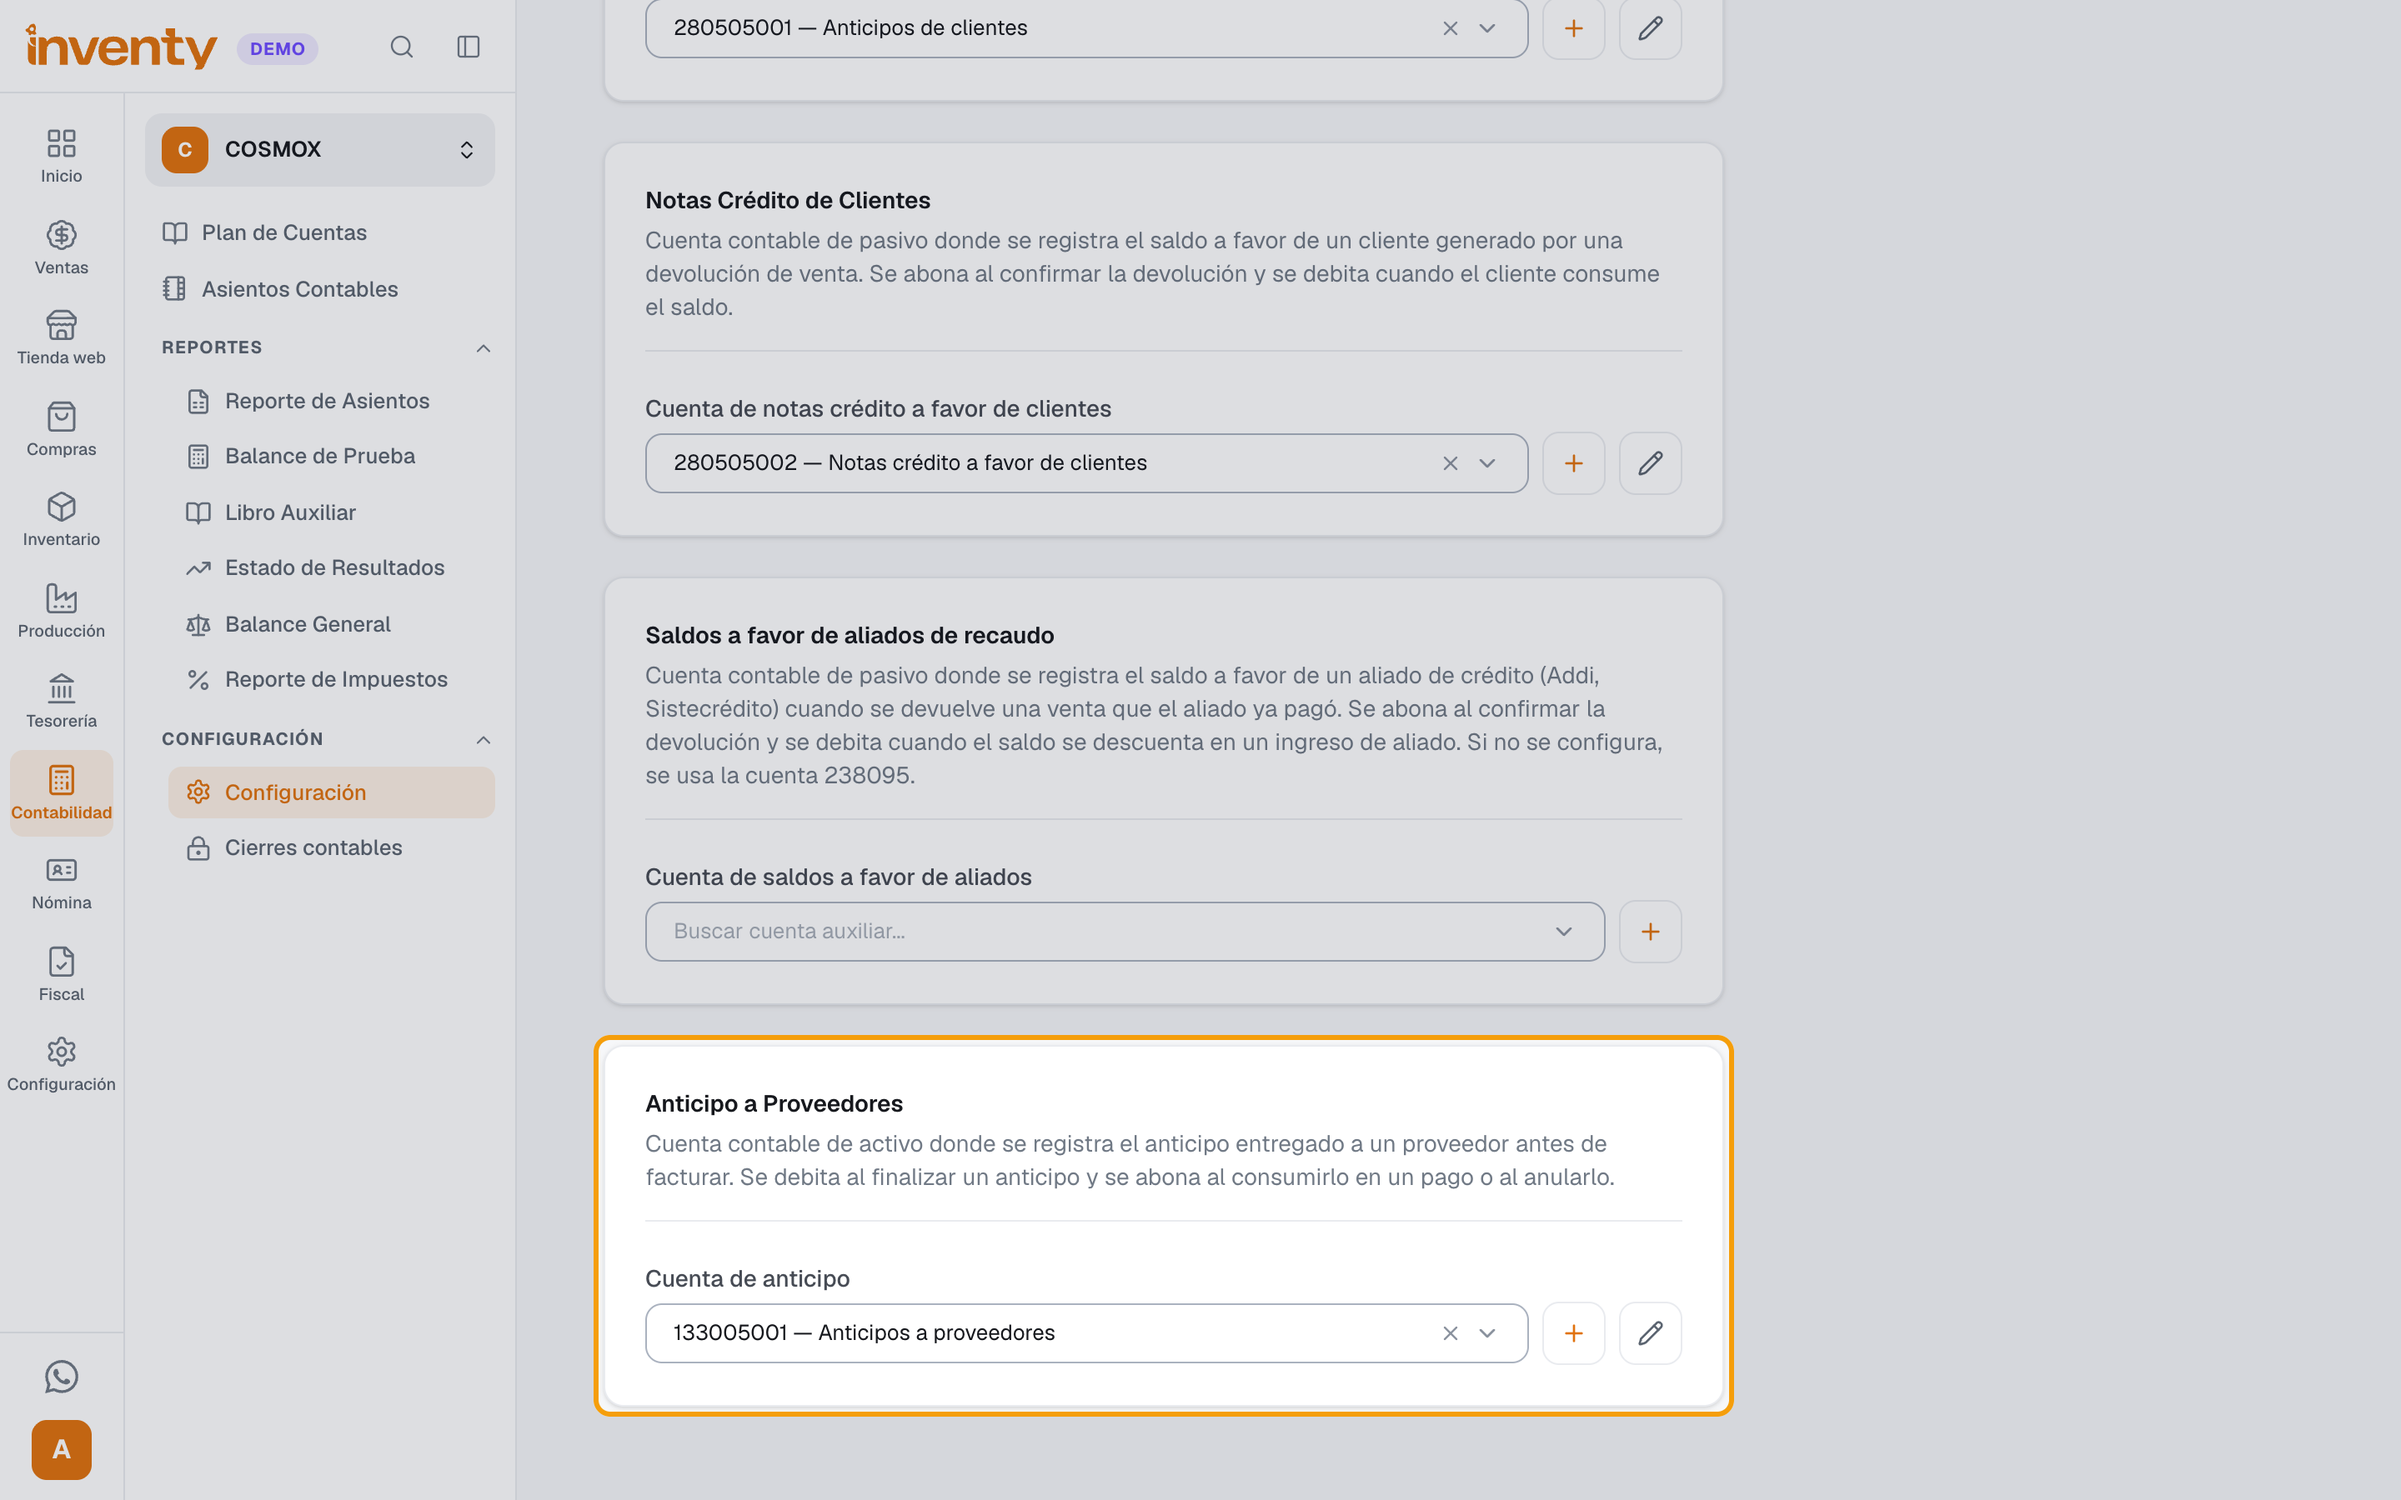
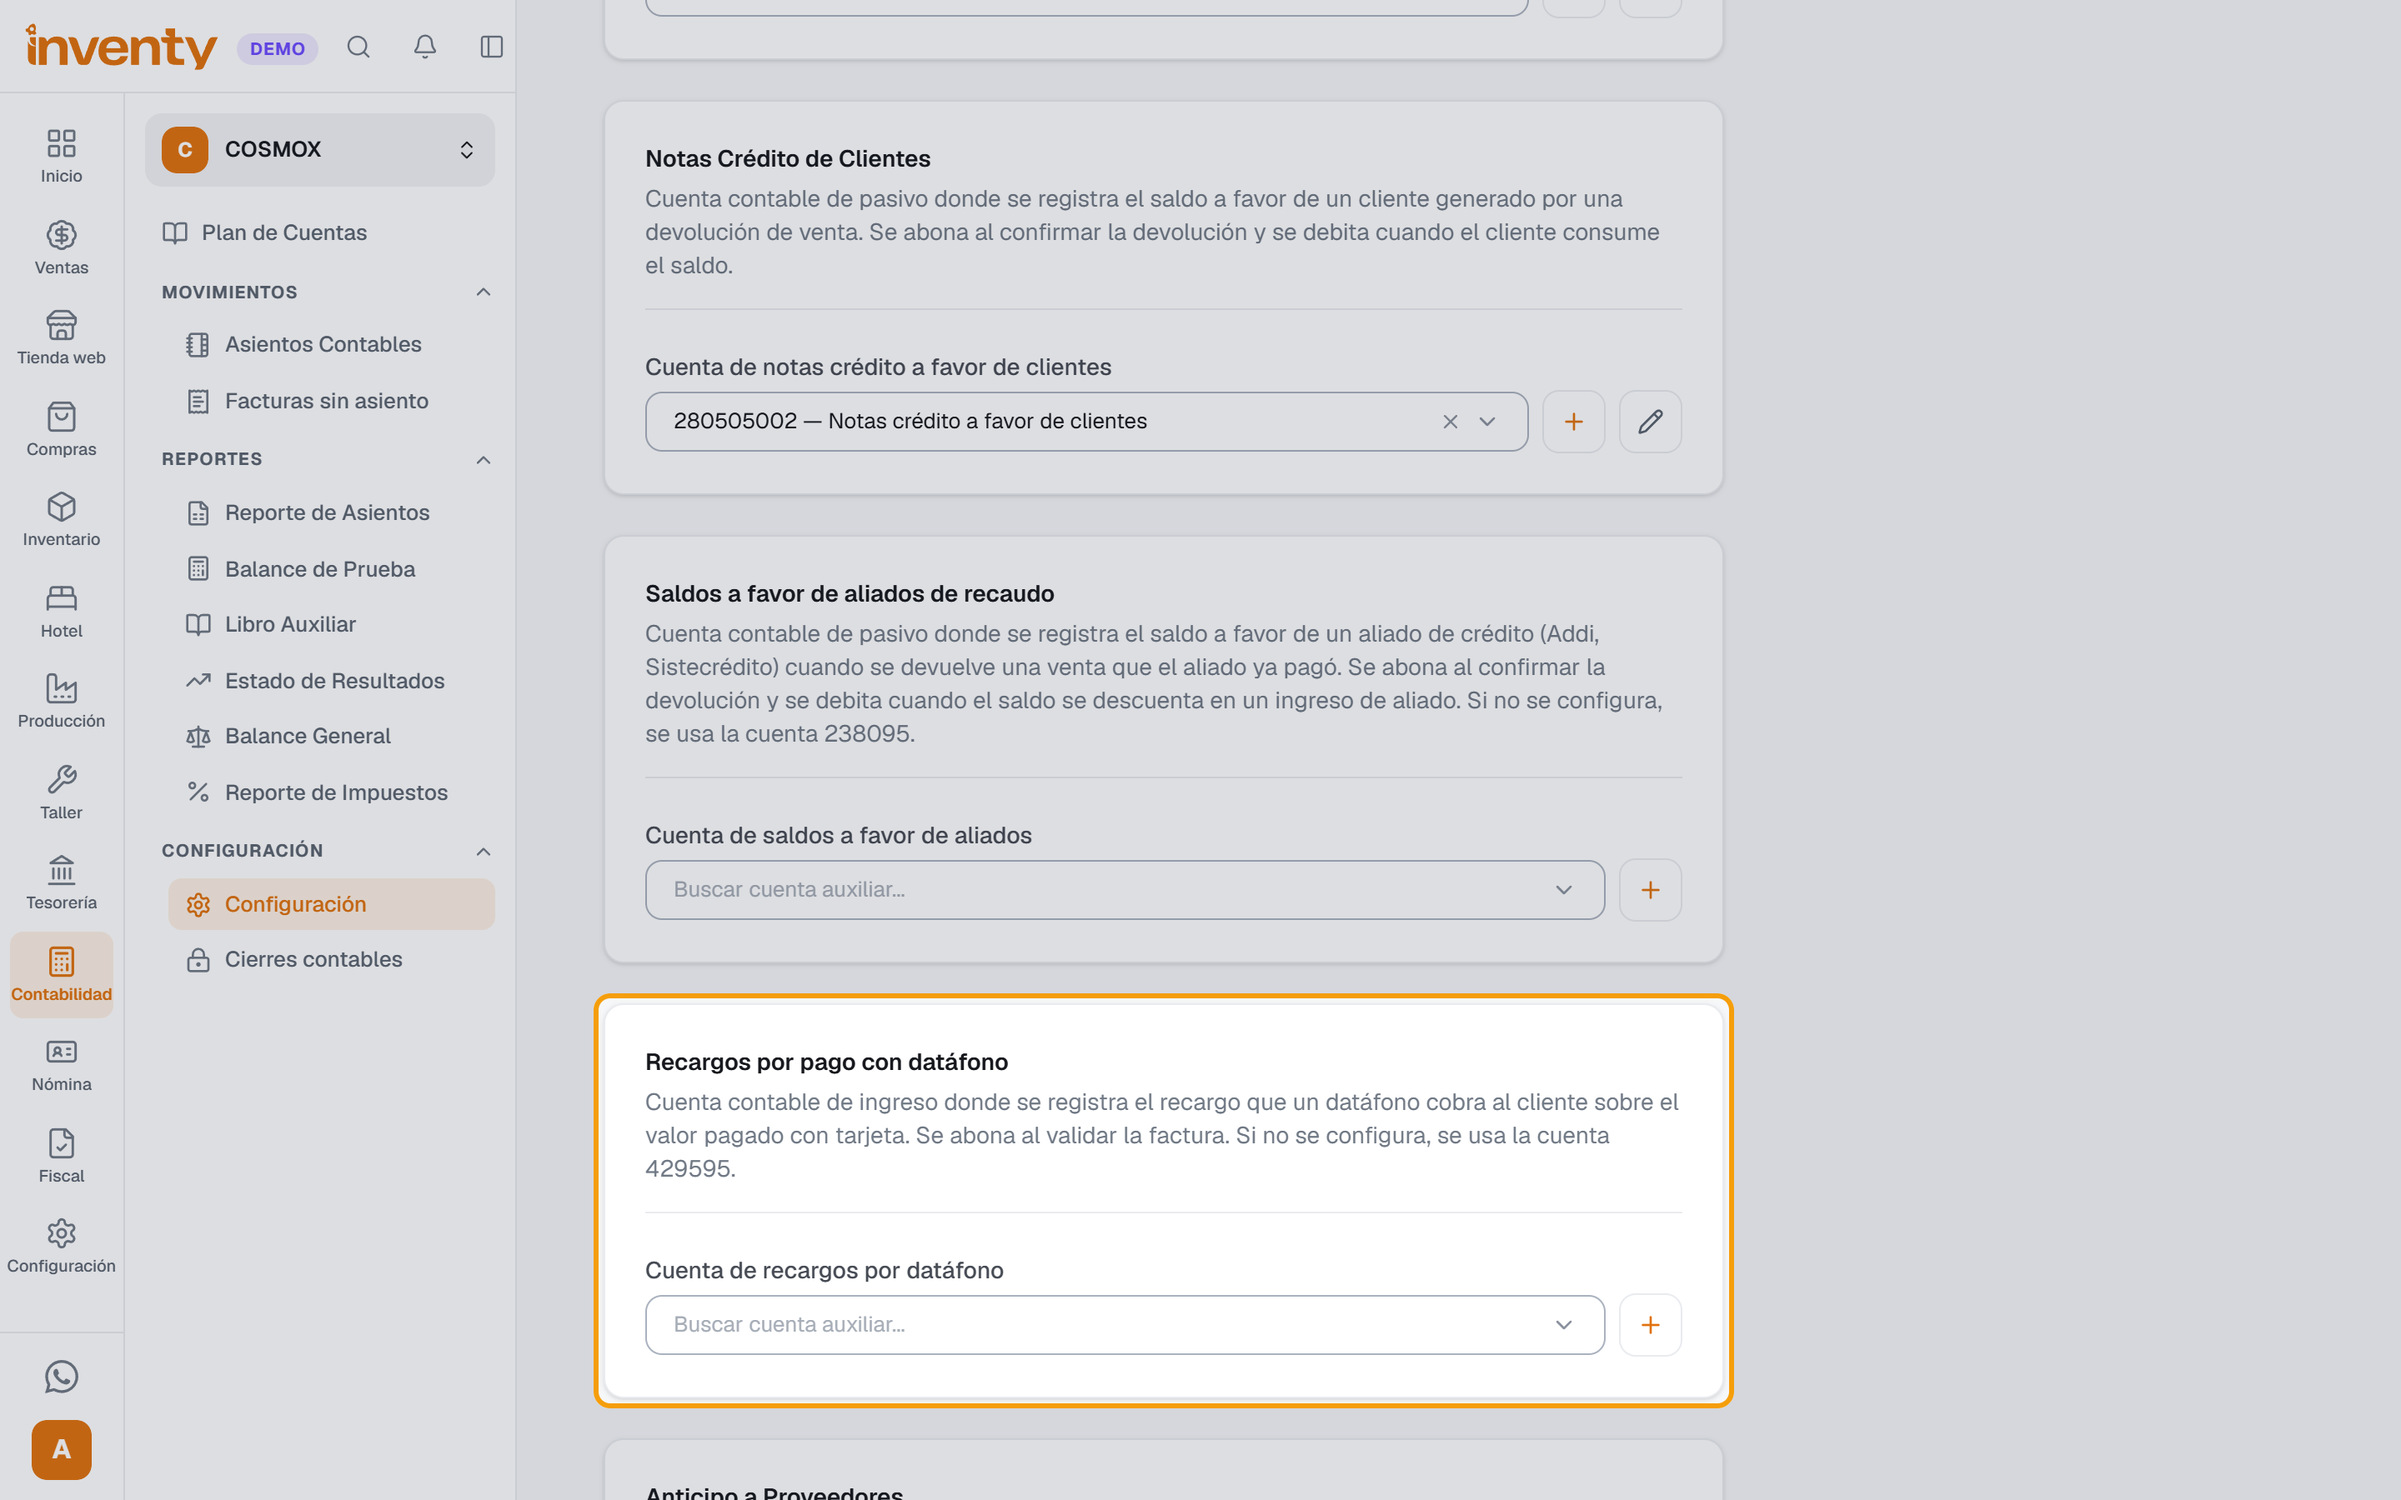
feat: update contabilidad documentation and add new steps for datáfono charges

diff --git a/docs/contabilidad/configuracion-contable.md b/docs/contabilidad/configuracion-contable.md
@@ -1,13 +1,13 @@
 ---
 title: "¿Cómo hago la configuración contable inicial?"
-description: "Pasos para configurar las cuentas que Inventy usa en compras, anticipos, notas crédito y aliados de recaudo."
+description: "Pasos para configurar las cuentas que Inventy usa en compras, anticipos, notas crédito, aliados de recaudo y recargos por datáfono."
 estado: pendiente-validacion
 tipo: rapida
 modulo: contabilidad
 menu: "Contabilidad › Configuración"
 permisos:
   - Ver configuración contable
-revisado: 2026-11-10
+revisado: 2026-11-11
 tags:
   - Contabilidad
   - Configuración
@@ -15,7 +15,7 @@ tags:
 
 # ¿Cómo hago la configuración contable inicial?
 
-<p class="tambien-se-busca">También se busca como: configuración contable, cuentas a pagar, cuenta de proveedores, no hay cuentas configuradas, cuenta de anticipos, notas crédito, Addi, Sistecrédito, parametrizar contabilidad.</p>
+<p class="tambien-se-busca">También se busca como: configuración contable, cuentas a pagar, cuenta de proveedores, no hay cuentas configuradas, cuenta de anticipos, notas crédito, Addi, Sistecrédito, parametrizar contabilidad, recargo por datáfono, cuenta de recargos.</p>
 
 **Antes de empezar:** carga primero las [cuentas auxiliares por defecto](cuentas-auxiliares.md): asignan casi todo solo.
 
@@ -45,9 +45,13 @@ tags:
 
 ![Paso 6: bloque Saldos a favor de aliados de recaudo](../assets/capturas/contabilidad/configuracion-contable/paso-6.webp)
 
-**Paso 7.** En **Anticipo a Proveedores**, revisa la **Cuenta de anticipo** (activo).
+**Paso 7.** Si cobras con datáfono, en **Recargos por pago con datáfono** revisa la **Cuenta de recargos por datáfono** (ingreso donde queda el recargo que cobra el datáfono sobre el valor pagado con tarjeta).
 
-![Paso 7: bloque Anticipo a Proveedores](../assets/capturas/contabilidad/configuracion-contable/paso-7.webp)
+![Paso 7: bloque Recargos por pago con datáfono](../assets/capturas/contabilidad/configuracion-contable/paso-7.webp)
+
+**Paso 8.** En **Anticipo a Proveedores**, revisa la **Cuenta de anticipo** (activo).
+
+![Paso 8: bloque Anticipo a Proveedores](../assets/capturas/contabilidad/configuracion-contable/paso-8.webp)
 
 ✅ **Listo:** los cambios se guardan solos (verás *Configuración actualizada.*). Ya puedes registrar compras, anticipos y devoluciones con contabilidad.
 

diff --git a/gestion/capturas-reporte.md b/gestion/capturas-reporte.md
@@ -1,15 +1,5 @@
 # Reporte de capturas
 
-> Generado por `npm run capturas` el 11/11/2026, 12:05:43 p. m.. Ambiente: https://erp.cosmox.tech
+> Generado por `npm run capturas` el 12/11/2026, 10:54:30 a. m.. Ambiente: https://erp.cosmox.tech
 
-**0** capturas tomadas · **1** fallas · **40** imágenes siguen pendientes.
-
-## Fallas
-
-| Guía | Paso | Detalle |
-|---|---|---|
-| productos-inventario/registrar-imei.md | 6 | locator.waitFor: Timeout 10000ms exceeded. (ver .logs\capturas-fallas\productos-inventario_registrar-imei_md-paso-6.png · https://erp.cosmox.tech/cosmox/products/01a1cb73-f518-736c-8be2-9a70c6933429/edit#general) |
-
-> Generado por `npm run capturas` el 19/10/2026, 6:21:01 p. m.. Ambiente: https://erp.cosmox.tech
-
-**6** capturas tomadas · **0** fallas · **45** imágenes siguen pendientes.
+**8** capturas tomadas · **0** fallas · **41** imágenes siguen pendientes.
